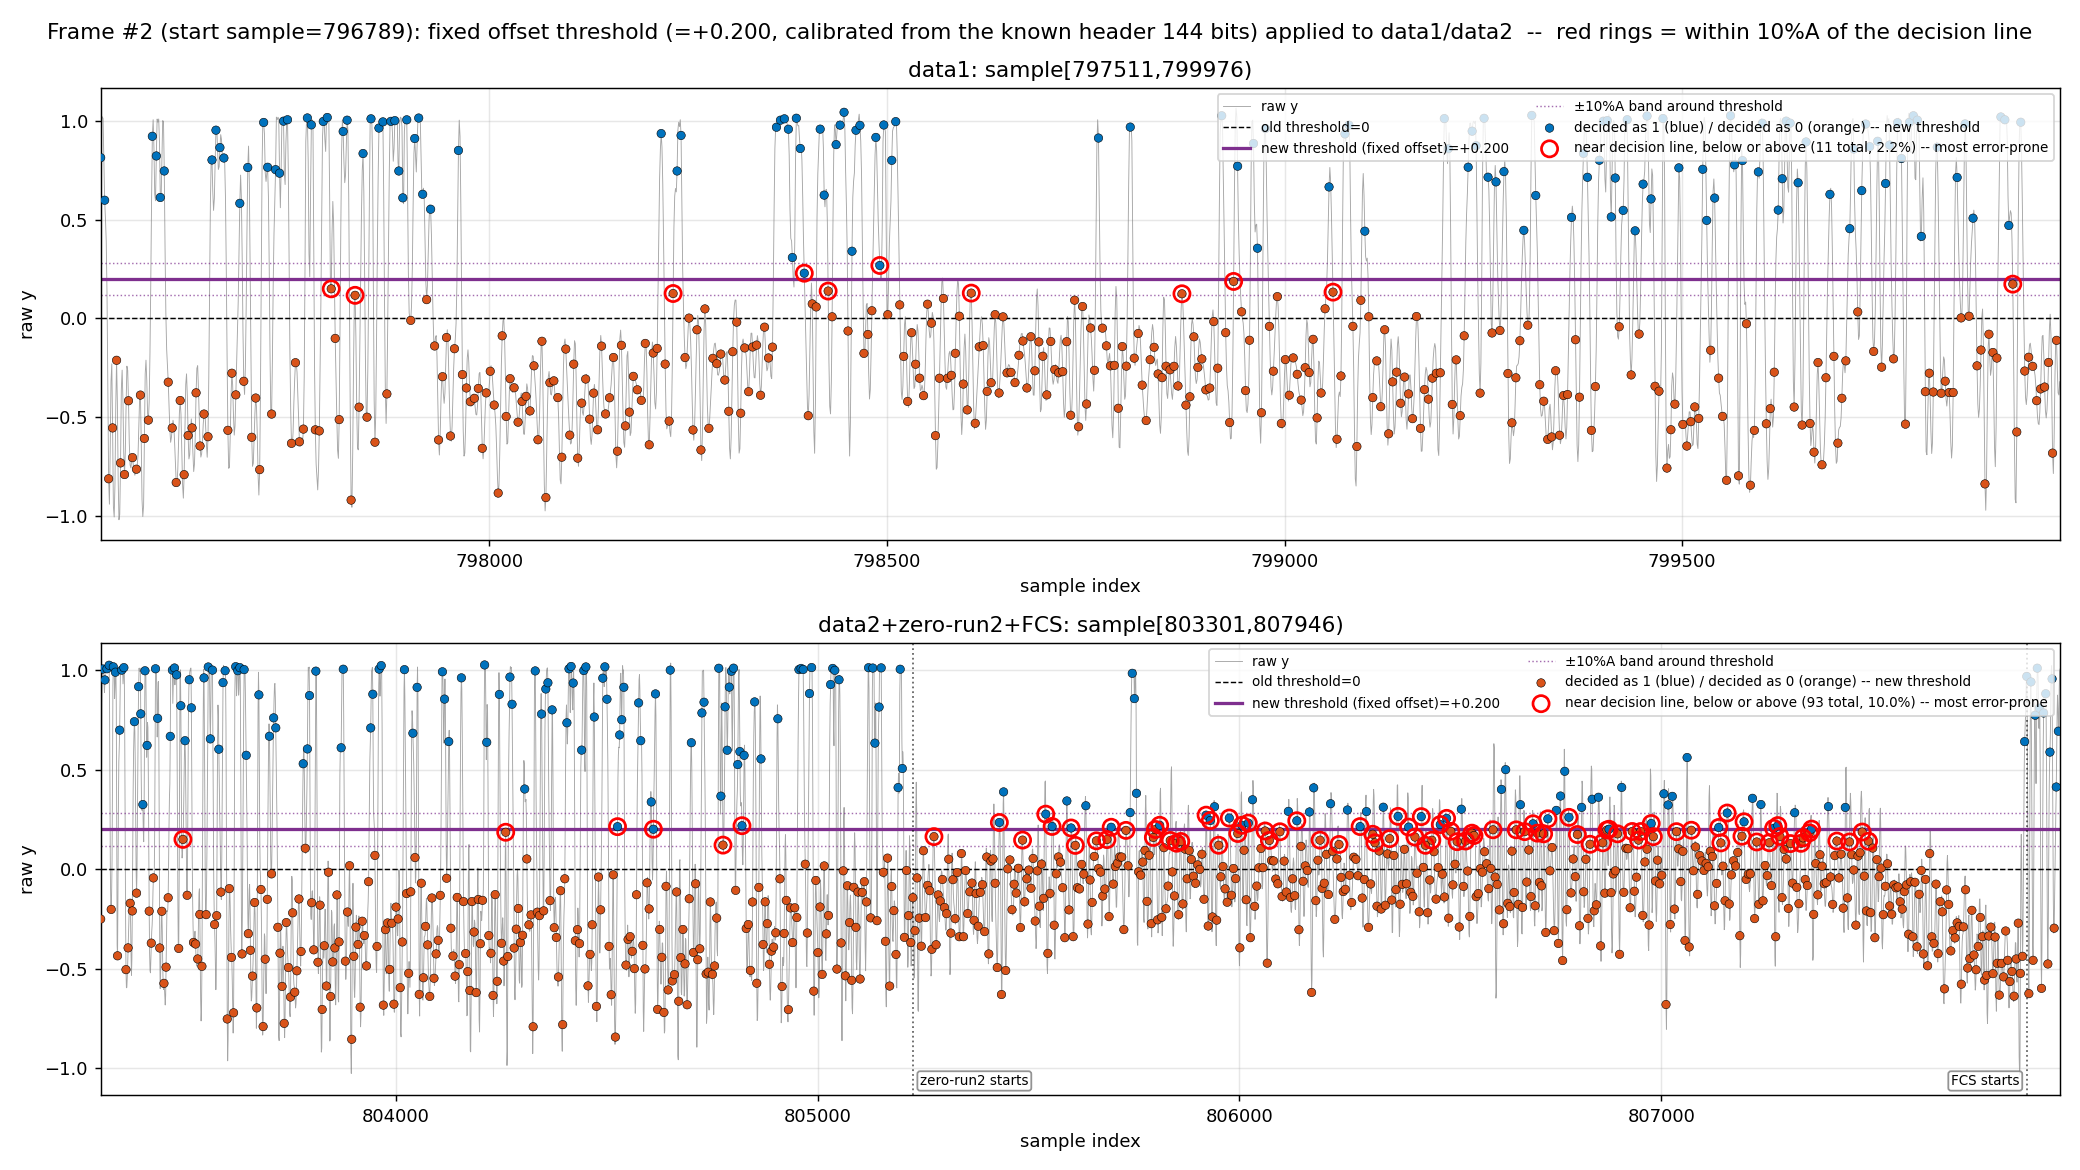
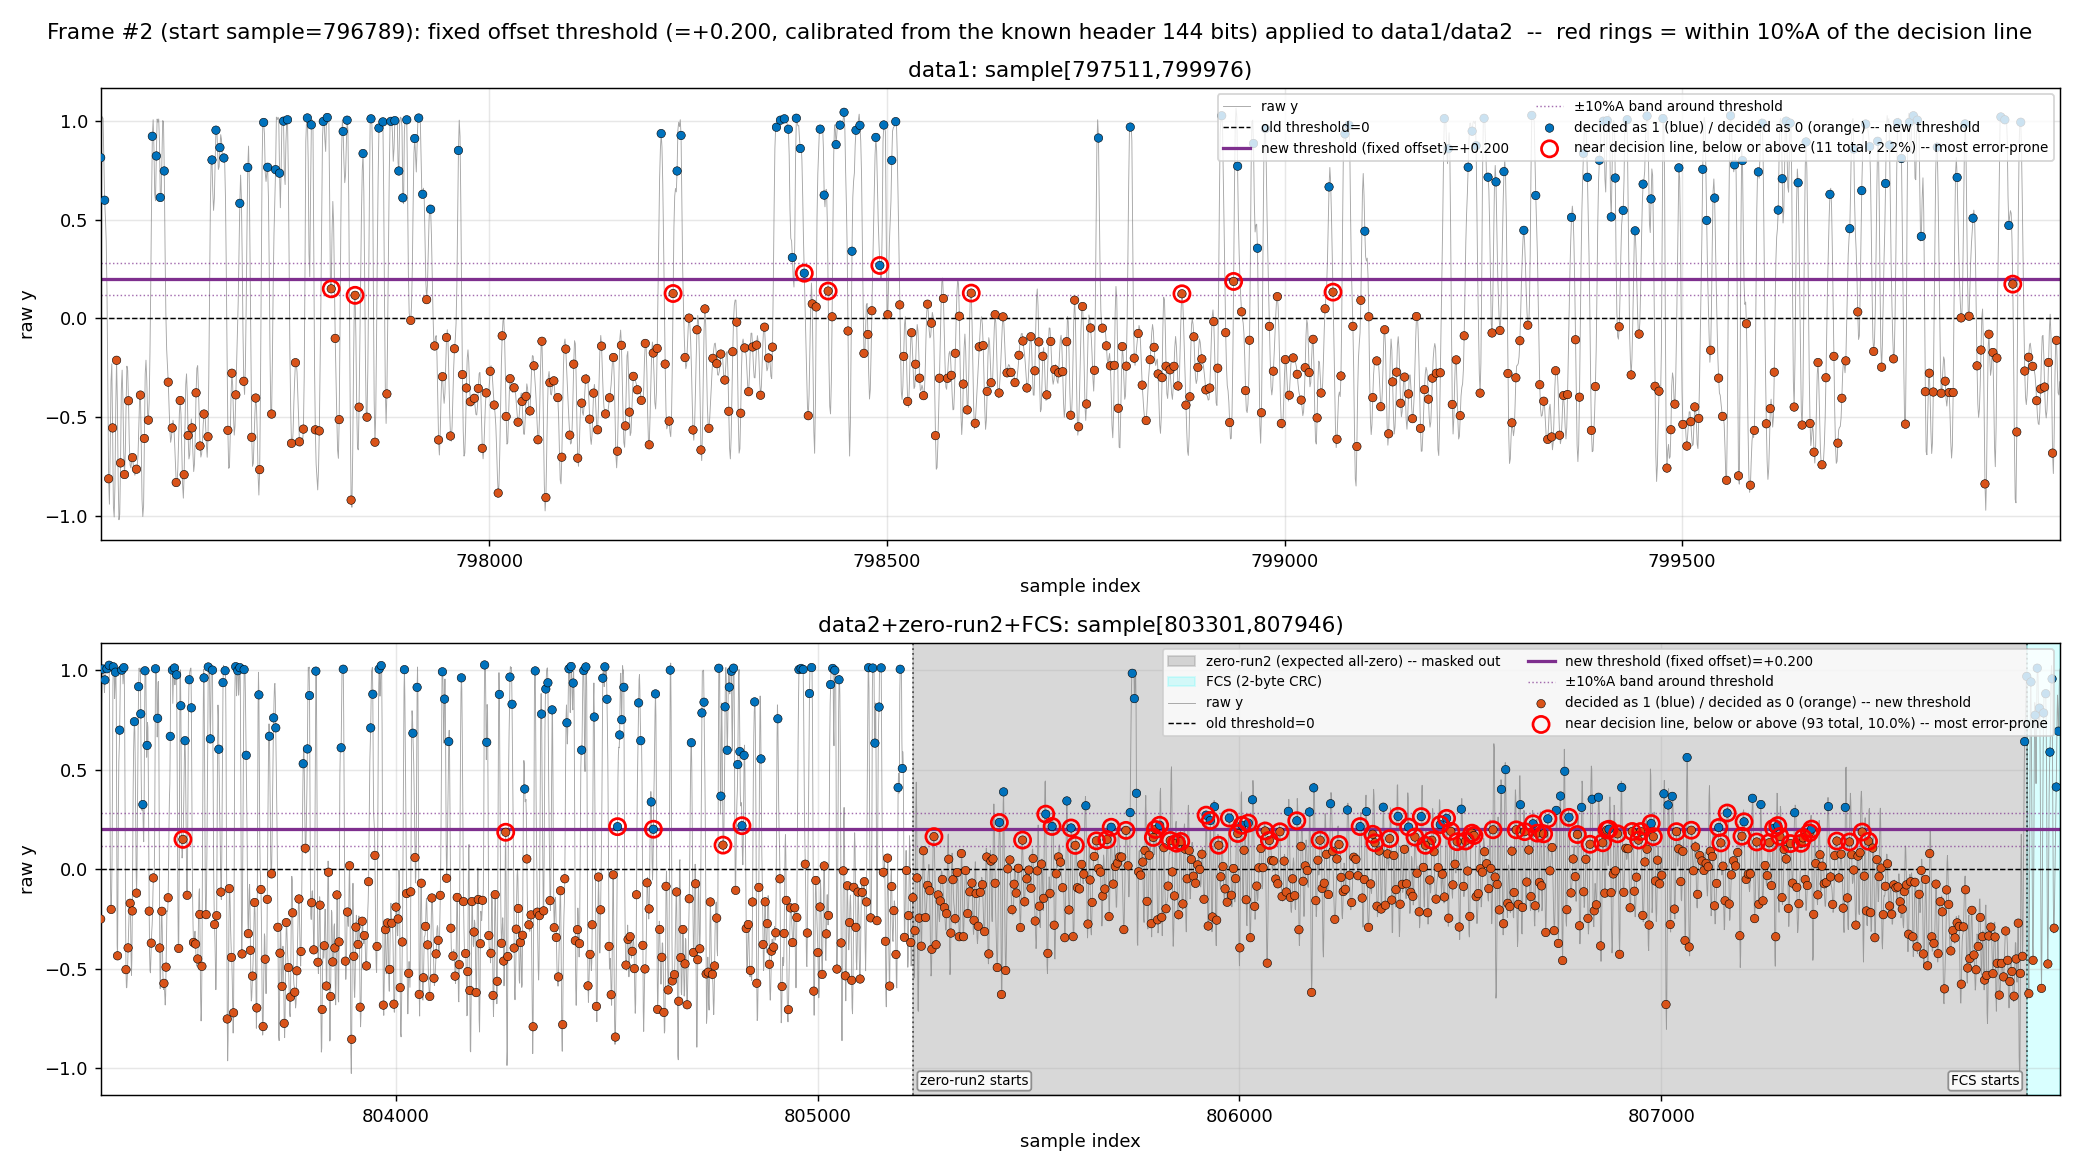
Mask zero-run2 gray in 03b, highlight FCS, report FCS-specific near-count
zero-run2 is shaded gray in the extended data2 panel so its much larger
near-decision-line candidate count doesn't drown out the FCS sub-range,
which is now tinted cyan. Terminal output also prints the near-count
restricted to just the 16 FCS bits. Finding: FCS's low-confidence rate
(0-2/16 per frame) is in the same ballpark as data1/data2, not worse --
recorded in the README's Key findings.

Changed region(s): [[0.4375, 0.5231, 1.0, 0.9538]]

diff --git a/03_data_segment_processing/03b_data_fixed_offset_threshold.py b/03_data_segment_processing/03b_data_fixed_offset_threshold.py
@@ -267,7 +267,23 @@ def plot_frame(plt, y, start, frame_no, z_score, data_segs, offset_thr, hdr_err)
               f"({100*n_diff/(j1-j0):.1f}%)  |  near decision line (|y-threshold|<={margin:.3f}) = "
               f"{near.sum()} ({100*near.sum()/(j1-j0):.1f}%)")
 
+        marker_pos = dict(markers)
+        zr2_start = marker_pos.get("zero-run2 starts")
+        fcs_start = marker_pos.get("FCS starts")
+        if fcs_start is not None:
+            fcs_mask = idx_sym >= fcs_start
+            n_fcs = fcs_mask.sum()
+            near_fcs = near & fcs_mask
+            print(f"  -> FCS sub-range: sample[{fcs_start},{s1})  {n_fcs} symbols  "
+                  f"near decision line = {near_fcs.sum()} ({100*near_fcs.sum()/n_fcs:.1f}%)"
+                  if n_fcs else "  -> FCS sub-range: no symbols recovered")
+
         xs_sample = np.arange(s0, s1)
+        if zr2_start is not None and fcs_start is not None:
+            ax.axvspan(zr2_start, fcs_start, color=GRAY, alpha=0.3, zorder=0,
+                      label="zero-run2 (expected all-zero) -- masked out")
+            ax.axvspan(fcs_start, s1, color="cyan", alpha=0.15, zorder=0,
+                      label="FCS (2-byte CRC)")
         ax.plot(xs_sample, y[s0:s1], "-", color=GRAY, lw=0.5, alpha=0.7, label="raw y")
         ax.axhline(0, color="k", lw=0.8, ls="--", label="old threshold=0")
         ax.axhline(offset_thr, color=PURPLE, lw=1.8,

diff --git a/03_data_segment_processing/README.md b/03_data_segment_processing/README.md
@@ -130,7 +130,12 @@ compare against.
 The second panel's extended range (data2+zero-run2+FCS) applies $\theta^*$
 unchanged across all three -- i.e. it shows what the same header-calibrated
 threshold does to the all-zero padding and the CRC, not just the telemetry
-`03a` was built around.
+`03a` was built around. zero-run2 is shaded gray (it's expected all-zero,
+not the segment in question) and FCS is tinted cyan, so it's visually
+obvious whether the CRC bits themselves have any low-confidence symbols,
+without zero-run2's much larger candidate count drowning them out. The
+terminal output also prints the near-decision-line count restricted to just
+the FCS sub-range.
 
 ## Key findings
 
@@ -165,6 +170,12 @@ threshold does to the all-zero padding and the CRC, not just the telemetry
   `02_zero_run_baseline/`'s finding that the all-zero padding isn't cleanly
   resolved either (its "isolated 1s" are exactly this same low-confidence
   population, seen from the other side).
+- **FCS itself looks clean**: of the 16 CRC bits, 0/16 (frame#2), 2/16
+  (frame#1), 2/16 (frame#3) land within the near-decision-line band -- a
+  rate in the same ballpark as data1/data2, not visibly worse. The CRC
+  bits' low-confidence count doesn't stand out from the rest of the frame,
+  which argues against "the CRC itself is unusually hard to slice" as an
+  explanation for the 0-frames-pass-CRC result.
 
 ## How to run
 
